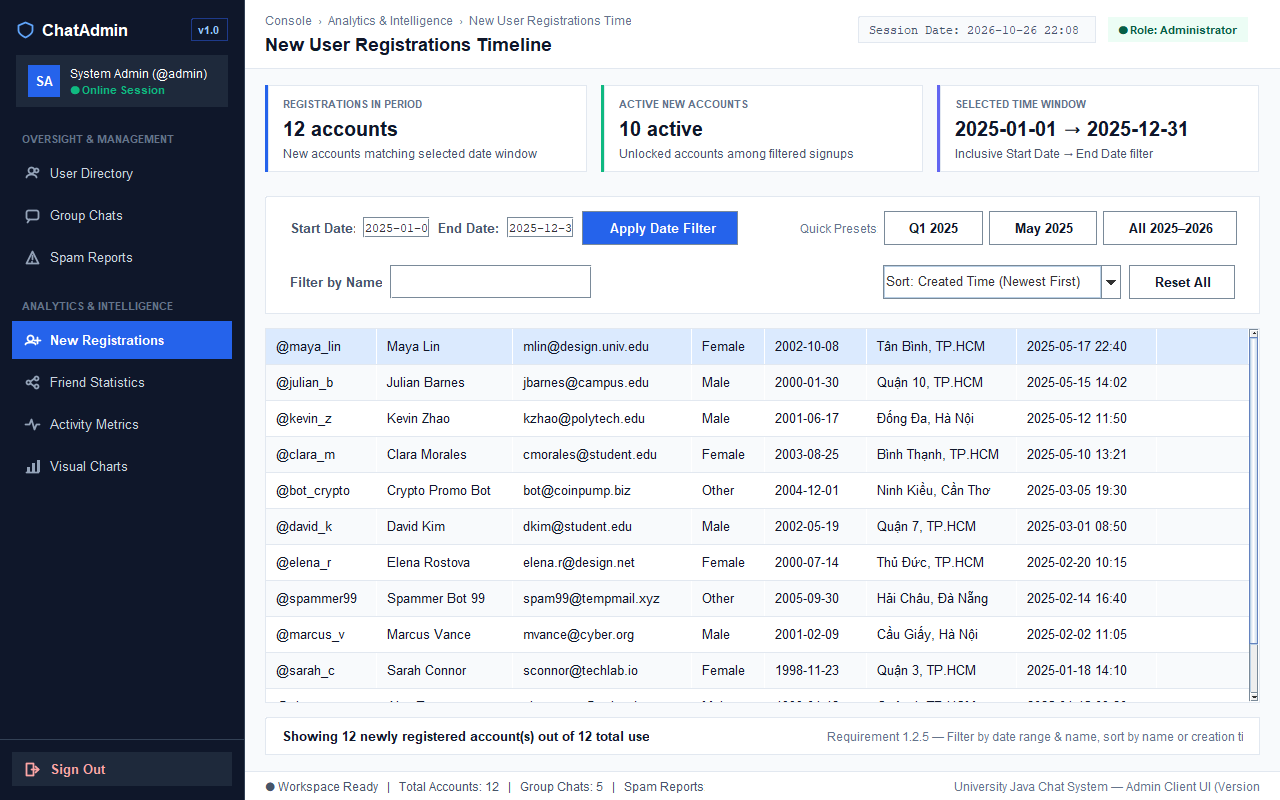
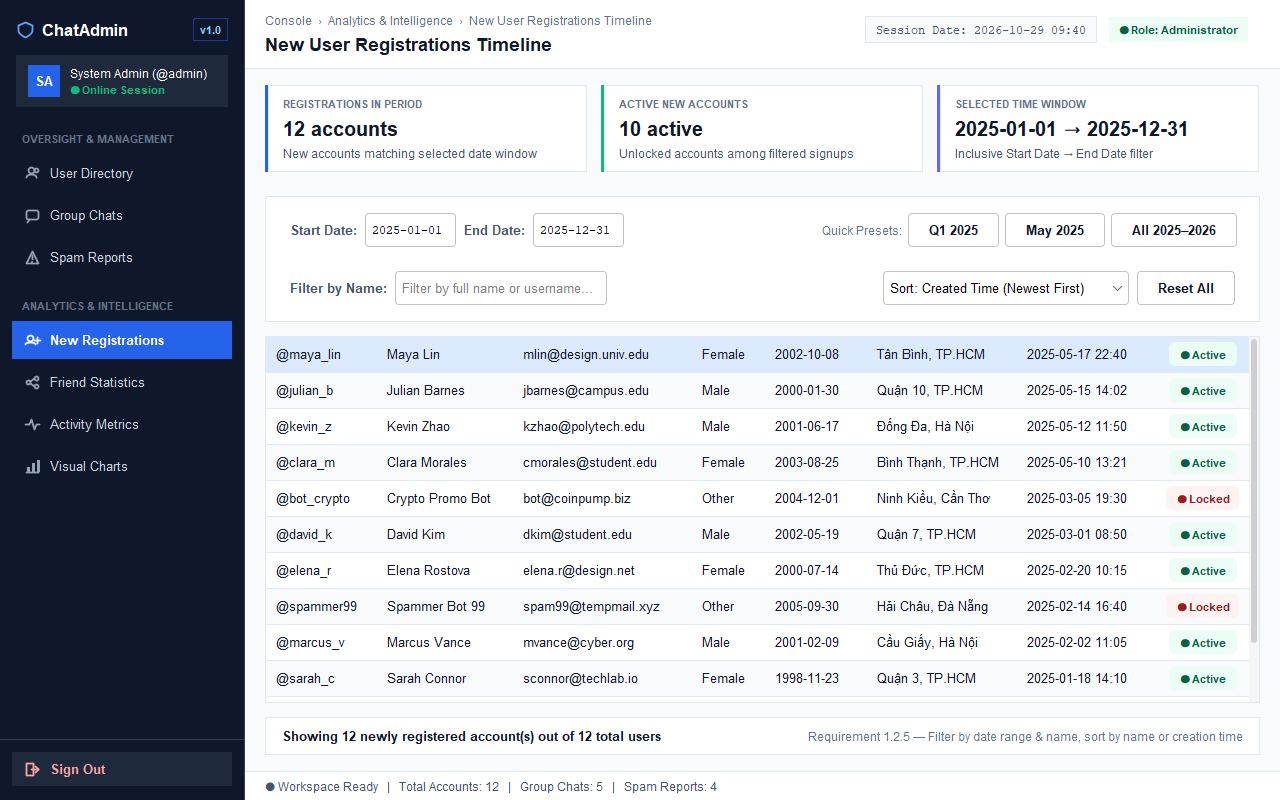
docs(admin): update admin UI screenshots and AI-LOG after feedback refinement

diff --git a/AI-LOG.md b/AI-LOG.md
@@ -48,3 +48,12 @@ Changed: Adjusted layout details and stripped unnecessary infrastructure metrics
 Rejected: Direct database connections or backend business logic in Version 1.
 By hand: Reviewed each screen step-by-step, verified the packaged `admin.jar`, and approved each commit on `feature/admin-ui-v1`.
 
+## 2026-10-29 — Refine Admin Client UI layout and auto-filtering from review feedback
+Tool: Antigravity.
+Asked for: Address UI review feedback on `feature/admin-ui-v1`: remove temporary Stitch mockup/plan files, fix login dialog footer text overflow, remove the right-side version text from the main status footer, widen date input fields, replace redundant manual filter/refresh buttons with automatic filtering and chart updates while preserving reset buttons, and improve responsive behavior when resizing windows.
+Kept: All existing Version 1 business logic, mock data models, navigation structure, and reset actions across all panels.
+Changed: Updated `AdminLoginDialog`, `AdminMainFrame`, `AdminUIStyle`, `UserManagementPanel`, `UserDetailHistoryDialog`, `GroupManagementPanel`, `SpamReportPanel`, `NewRegistrationPanel`, `FriendStatsPanel`, `UserActivityPanel`, `RegistrationChartPanel`, `ActivityChartPanel`, and regenerated `docs/screenshots/admin/`.
+Rejected: Modifying functional requirements, changing layout architecture, or removing reset controls.
+By hand: Provided the detailed UI review feedback in `feedback.txt`, removed the mockup/plan files from `docs/`, and reviewed the incremental commits.
+
+
